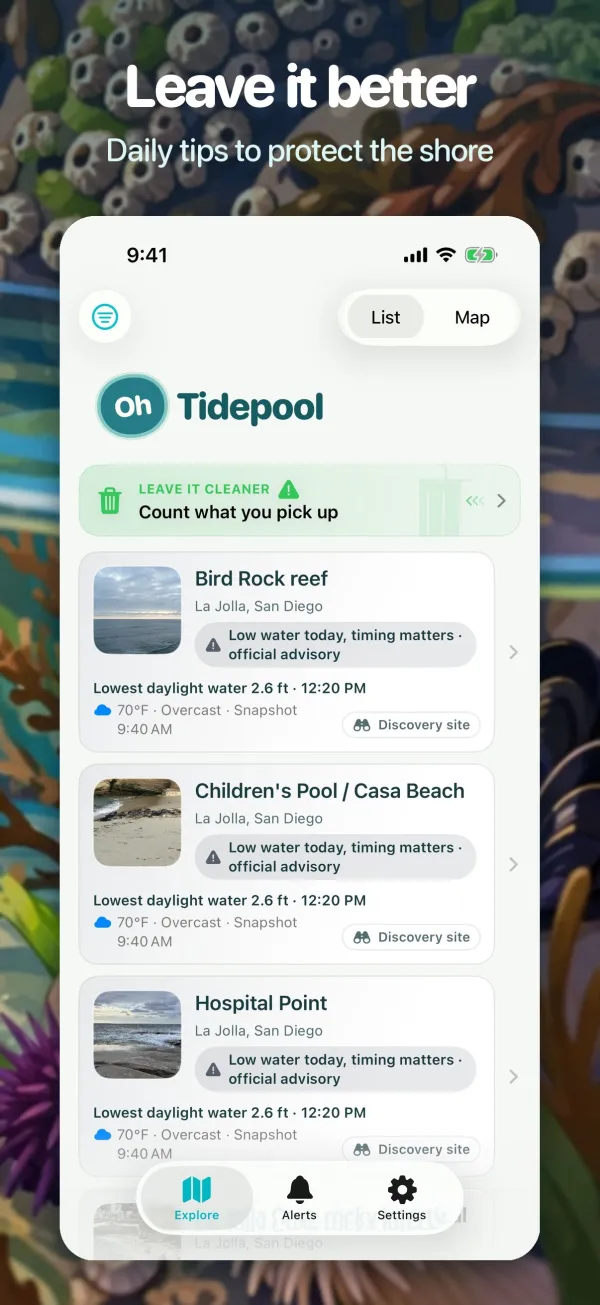
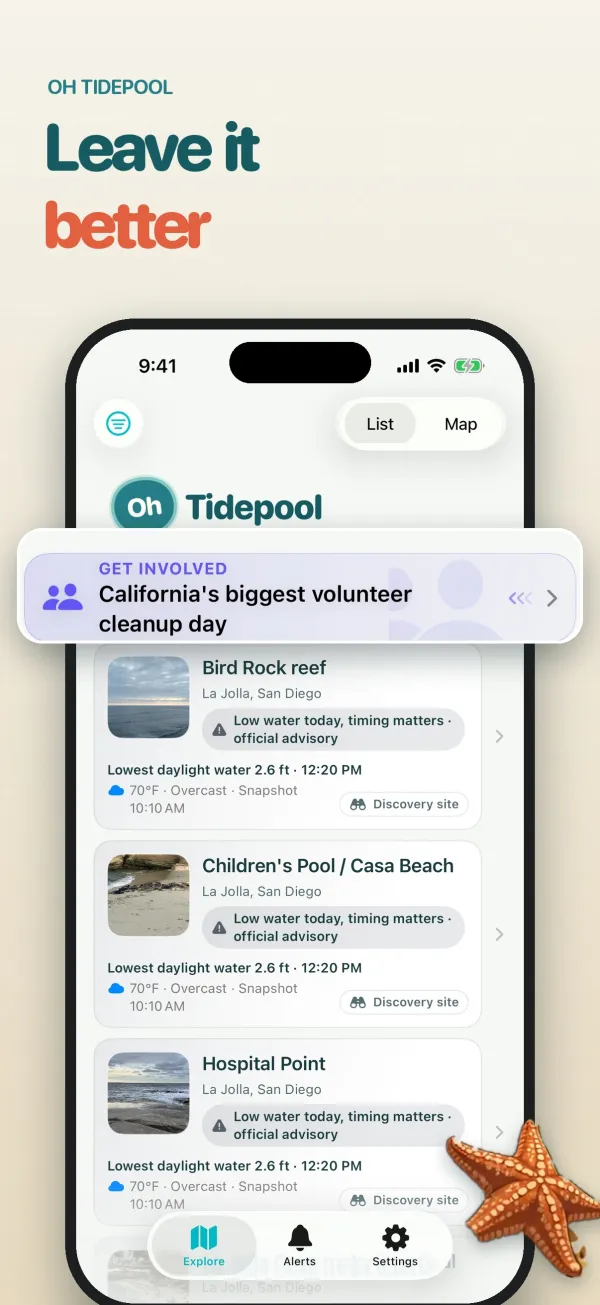
Landing gallery: field-guide screenshots from build 49

diff --git a/index.html b/index.html
@@ -34,7 +34,7 @@
       </div>
     </section>
 
-    <section class="store-shots" aria-label="Oh Tidepool App Store screenshots"><ul><li><a href="./assets/store/01-map.webp"><img src="./assets/store/01-map.webp" width="600" height="1305" loading="lazy" alt="Find a tidepool: map of reviewed tidepool sites along the coast, with colored condition markers."></a></li><li><a href="./assets/store/02-tides.webp"><img src="./assets/store/02-tides.webp" width="600" height="1305" loading="lazy" alt="Plan the best hour: Dike Rock tide chart with seven days of NOAA tide predictions."></a></li><li><a href="./assets/store/03-alerts.webp"><img src="./assets/store/03-alerts.webp" width="600" height="1305" loading="lazy" alt="Catch the low tide: Alerts screen for choosing locations, timing, and notice for visit-plan alerts."></a></li><li><a href="./assets/store/04-site.webp"><img src="./assets/store/04-site.webp" width="600" height="1305" loading="lazy" alt="Know before you go: Dike Rock site page with visit guidance and an official beach hazards advisory."></a></li><li><a href="./assets/store/05-tips.webp"><img src="./assets/store/05-tips.webp" width="600" height="1305" loading="lazy" alt="Leave it better: Explore list with a daily tip about counting the trash you pick up, above site cards."></a></li></ul></section>
+    <section class="store-shots" aria-label="Oh Tidepool App Store screenshots"><ul><li><a href="./assets/store/01-map.webp"><img src="./assets/store/01-map.webp" width="600" height="1305" loading="lazy" alt="Find your tidepool: map of tidepool sites along the coast with colored condition markers and a zoomed inset."></a></li><li><a href="./assets/store/02-tide-sky.webp"><img src="./assets/store/02-tide-sky.webp" width="600" height="1305" loading="lazy" alt="Plan the best hour: Dike Rock weather and a Tide and sky chart showing the tide curve with daylight, cloud, and rain."></a></li><li><a href="./assets/store/03-species.webp"><img src="./assets/store/03-species.webp" width="600" height="1305" loading="lazy" alt="Meet the locals: What to look for at Dike Rock, with an ochre sea star card and other shoreline animals."></a></li><li><a href="./assets/store/04-alerts.webp"><img src="./assets/store/04-alerts.webp" width="600" height="1305" loading="lazy" alt="Catch the low tide: Alerts screen for plan-visit alerts that check forecast tide and surf for chosen locations."></a></li><li><a href="./assets/store/05-tips.webp"><img src="./assets/store/05-tips.webp" width="600" height="1305" loading="lazy" alt="Leave it better: Explore list with a Get involved card about a volunteer cleanup day above nearby site cards."></a></li></ul></section>
 
     <section class="section app-uses" id="uses" aria-labelledby="uses-title">
       <div class="section-heading"><p class="eyebrow">WHAT YOU CAN USE IT FOR</p><h2 id="uses-title">A little preparation.<br>A lot more to notice.</h2><p>The app brings planning and learning together, so you can arrive curious and leave the shore as you found it.</p></div>

diff --git a/site.css b/site.css
@@ -91,10 +91,10 @@ summary { cursor: pointer; min-height: 48px; padding: 16px 0; font-weight: 700; 
 .beta, .get { max-width: 840px; text-align: center; }
 .get .lede { margin: 0 auto 28px; }
 .hero-art { grid-area: art; width: 100%; height: auto; aspect-ratio: 16 / 9; object-fit: cover; border-radius: 12px; }
-.store-shots { max-width: 1280px; margin: 0 auto; padding: 0 40px 64px; }
-.store-shots ul { list-style: none; margin: 0; padding: 0; display: grid; grid-template-columns: repeat(5, 1fr); gap: 16px; }
+.store-shots { background: linear-gradient(180deg, #fffdf4, #f0e2c8); padding: 40px 40px 64px; }
+.store-shots ul { list-style: none; max-width: 1200px; margin: 0 auto; padding: 0; display: grid; grid-template-columns: repeat(5, 1fr); gap: 16px; }
 .store-shots img { display: block; width: 100%; height: auto; border-radius: 14px; }
-@media (max-width: 780px) { .store-shots { padding: 0 16px 40px; } .store-shots ul { grid-template-columns: none; grid-auto-flow: column; grid-auto-columns: 62%; overflow-x: auto; scroll-snap-type: x mandatory; gap: 12px; } .store-shots li { scroll-snap-align: start; } }
+@media (max-width: 780px) { .store-shots { padding: 24px 16px 40px; } .store-shots ul { grid-template-columns: none; grid-auto-flow: column; grid-auto-columns: 62%; overflow-x: auto; scroll-snap-type: x mandatory; gap: 12px; } .store-shots li { scroll-snap-align: start; } }
 .qr-row { display: flex; flex-wrap: wrap; justify-content: center; gap: 32px; margin: 36px 0 8px; }
 .qr { margin: 0; display: grid; justify-items: center; gap: 10px; }
 .qr img { width: 180px; height: 180px; background: #fff; padding: 8px; border-radius: 8px; }
